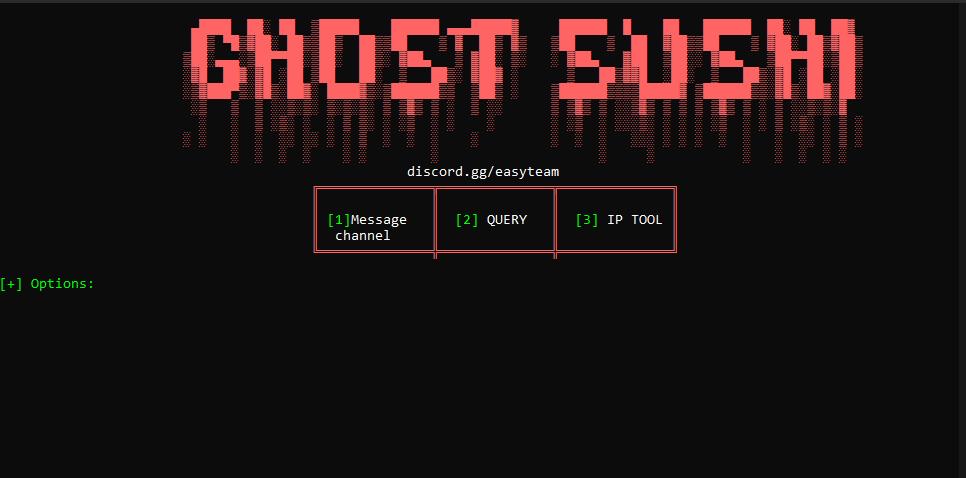
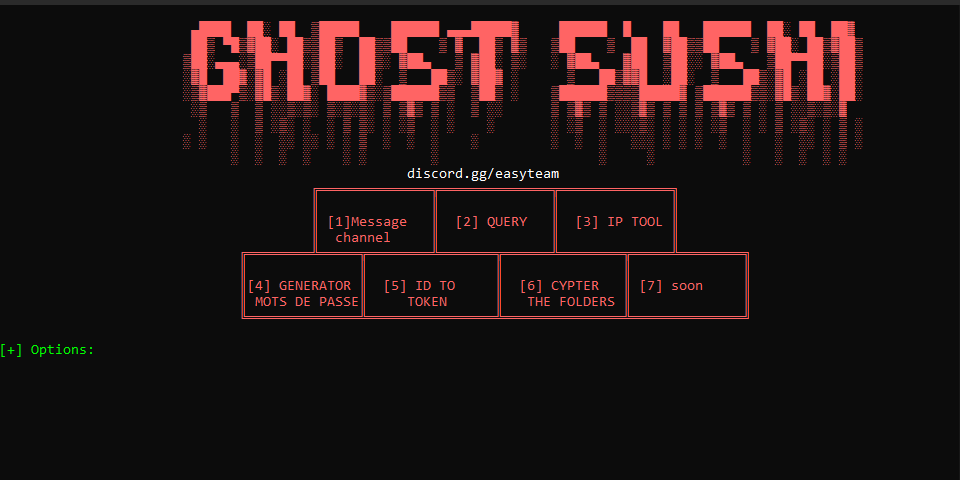
Add files via upload

Changed region(s): [[0.0, 0.0, 1.0, 0.6736], [0.0, 0.7029, 0.0938, 0.7615], [0.0, 0.5858, 0.0938, 0.6151]]

diff --git a/main.py b/main.py
@@ -1,6 +1,11 @@
 from pystyle import *
-import requests, json
+import requests
 from mcquery import mcquery
+import random
+import string
+import base64
+import os
+from cryptography.fernet import Fernet
 
 print(f'''{Colors.light_red}
                         ▄████  ██░ ██  ▒█████    ██████ ▄▄▄█████▓     ██████  █    ██   ██████  ██░ ██  ██▓
@@ -15,11 +20,38 @@ print(f'''{Colors.light_red}
                                                    {Colors.white}discord.gg/easyteam
                                       {Colors.light_red} ╔══════════════╦══════════════╦══════════════╗
                                       {Colors.light_red} ║              ║              ║              ║
-                                      {Colors.light_red} ║ {Colors.green}[1]{Colors.white}Message{Colors.light_red}   ║  {Colors.green}[2]{Colors.white} QUERY {Colors.light_red}  ║  {Colors.green}[3] {Colors.white}IP TOOL{Colors.light_red} ║
-                                     {Colors.light_red}  ║  {Colors.white}channel{Colors.light_red}     ║ {Colors.light_red}             ║              ║
-                                    {Colors.light_red}   ╚══════════════╬══════════════╬══════════════╝                                
+                                      {Colors.light_red} ║ [1]Message   ║  [2] QUERY   ║  [3] IP TOOL ║
+                                     {Colors.light_red}  ║  channel     ║              ║              ║
+                              {Colors.light_red}╔════════╩═════╦════════╩═══════╦══════╩════════╦═════╩════════╗    
+                              {Colors.light_red}║              ║                ║               ║              ║
+                              {Colors.light_red}║[4] GENERATOR ║  [5] ID TO     ║  [6] CYPTER   ║ [7] soon     ║
+                              {Colors.light_red}║ MOTS DE PASSE║     TOKEN      ║   THE FOLDERS ║              ║
+                              {Colors.light_red}╚══════════════╩════════════════╩═══════════════╩══════════════╝                   
 ''')
+def generate_password(length):
+    characters = string.ascii_letters + string.digits + string.punctuation
+    password = "".join(random.choice(characters) for i in range(length))
+    with open("Logs/generate_passwords.txt", "a+") as file:
+      file.write(password + "\n")
+      file.close()
+    return password
+def encrypt(key, filename):
+  with open(filename, 'rb') as f:
+    plaintext = f.read()
+    cipher_suite = Fernet(key)
+    cipher_text = cipher_suite.encrypt(plaintext)
 
+    with open(filename + '.enc', 'wb') as f:
+        f.write(cipher_text)
+def decrypt(key, filename):
+    with open(filename, 'rb') as f:
+        ciphertext = f.read()
+    cipher_suite = Fernet(key)
+    plain_text = cipher_suite.decrypt(ciphertext)
+    with open(filename[:-4], 'wb') as f:
+        f.write(plain_text)        
+
+  
 def query(ip, port):
  with mcquery(ip, port=port, timeout=10) as data:
   print(f'''{Colors.light_red}
@@ -30,7 +62,8 @@ def query(ip, port):
       ⚙ | Version du serveur:{Colors.white} {data.version} \n
       ⚙ | Plugins:{Colors.white} {data.plugins}\n  
       ⚙ | MOTD:{Colors.white} {data.motd}
-''')
+''') 
+
 def IpOption(ip):
     api = f"http://ip-api.com/json/{ip}"
     data = requests.get(api).json()
@@ -73,15 +106,20 @@ def SendWeboohk(message, webhook):
     }
   ]
  }
+  with open("Logs/message_channel.txt", "a+") as file:
+   file.write(message + "\n")
+   file.close()
   requests.post(webhook, json = data)
 while True:  
  option = input(f"{Colors.green}[+] Options:{Colors.white} ")
-
+   
  if option == "1":
    webhook = input(f"{Colors.green}[+] Webhhok:{Colors.white} ") 
    while True:
     message = input (f"\n\n{Colors.green}[+] Message:{Colors.white} ") 
     SendWeboohk(message, webhook)
+
+
 
  if option == "2":
    ip = input(f"{Colors.green}[+] Ip:{Colors.white} ")
@@ -91,10 +129,49 @@ while True:
     query(ip, port)
    except:
     print(f"Error :{Colors.white} (ip) / (port)") 
+
+
+
  if option == "3":
    ip = input(f"{Colors.green}[+] Ip:{Colors.white} ")
    try:
     IpOption(ip)
+    with open("Logs/ip_tool.txt", "a+") as file:
+      file.write(ip + "\n")
+      file.close()
    except:
     print(f"Error :{Colors.white} IP INVALID") 
-  
+
+
+
+ if option == "4":
+    caracteres = input(f"{Colors.green}[+] Caractères:{Colors.white} ") 
+    caracteres = int(caracteres)
+    password = generate_password(caracteres)
+    print(password)
+
+
+ if option == "5":
+    id = input(f"{Colors.green}[+] Id:{Colors.white} ")
+    encodedBytes = base64.b64encode(id.encode("utf-8"))
+    encodedStr = str(encodedBytes, "utf-8")
+    print(f'\n{Colors.light_red}══════════════════════════════════════════════════════════════════\n    {Colors.white}Token :{Colors.light_red} {encodedStr}    \n══════════════════════════════════════════════════════════════════')
+    with open("Logs/id_to_token.txt", "a+") as file:
+     file.write(encodedStr + "\n")
+     file.close()  
+
+
+ if option == "6":   
+  filename = input(f"{Colors.green}[+] Nom du fichier à crypter/décrypter: {Colors.white}")
+  key = input(f"{Colors.green}[+] Key: {Colors.white}")
+  key = bytes(key, encoding='utf-8')
+
+
+  if os.path.isfile(filename):
+    encrypt(key, filename)
+    print(f"Le fichier {filename} a bien été crypter")
+
+    decrypt(key, filename + '.enc')
+    print(f"Le fichier {filename} a bien été decrypter")
+  else:
+    print(f"Le fichier {filename} n'est pas trouver !")  

diff --git a/README.md b/README.md
@@ -1,3 +1,14 @@
+    ▄████  ██░ ██  ▒█████    ██████ ▄▄▄█████▓     ██████  █    ██   ██████  ██░ ██  ██▓
+    ██▒ ▀█▒▓██░ ██▒▒██▒  ██▒▒██    ▒ ▓  ██▒ ▓▒   ▒██    ▒  ██  ▓██▒▒██    ▒ ▓██░ ██▒▓██▒
+   ▒██░▄▄▄░▒██▀▀██░▒██░  ██▒░ ▓██▄   ▒ ▓██░ ▒░   ░ ▓██▄   ▓██  ▒██░░ ▓██▄   ▒██▀▀██░▒██▒
+   ░▓█  ██▓░▓█ ░██ ▒██   ██░  ▒   ██▒░ ▓██▓ ░      ▒   ██▒▓▓█  ░██░  ▒   ██▒░▓█ ░██ ░██░
+   ░▒▓███▀▒░▓█▒░██▓░ ████▓▒░▒██████▒▒  ▒██▒ ░    ▒██████▒▒▒▒█████▓ ▒██████▒▒░▓█▒░██▓░██░
+    ░▒   ▒  ▒ ░░▒░▒░ ▒░▒░▒░ ▒ ▒▓▒ ▒ ░  ▒ ░░      ▒ ▒▓▒ ▒ ░░▒▓▒ ▒ ▒ ▒ ▒▓▒ ▒ ░ ▒ ░░▒░▒░▓  
+     ░   ░  ▒ ░▒░ ░  ░ ▒ ▒░ ░ ░▒  ░ ░    ░       ░ ░▒  ░ ░░░▒░ ░ ░ ░ ░▒  ░ ░ ▒ ░▒░ ░ ▒ ░
+   ░ ░   ░  ░  ░░ ░░ ░ ░ ▒  ░  ░  ░    ░         ░  ░  ░   ░░░ ░ ░ ░  ░  ░   ░  ░░ ░ ▒ ░
+         ░  ░  ░  ░    ░ ░        ░                    ░     ░           ░   ░  ░  ░ ░  
+                                                                                   
+
 
 Hey, Voici mon tool , il est en créeation c'est la version alpha !
 
@@ -13,9 +24,3 @@ Contenue:
 
 
 C'est mon premier tool en python .
-
-
-Dowload Module: 
-  - pip install mcquery
-  - pip install pystyle
-  - pip install request
